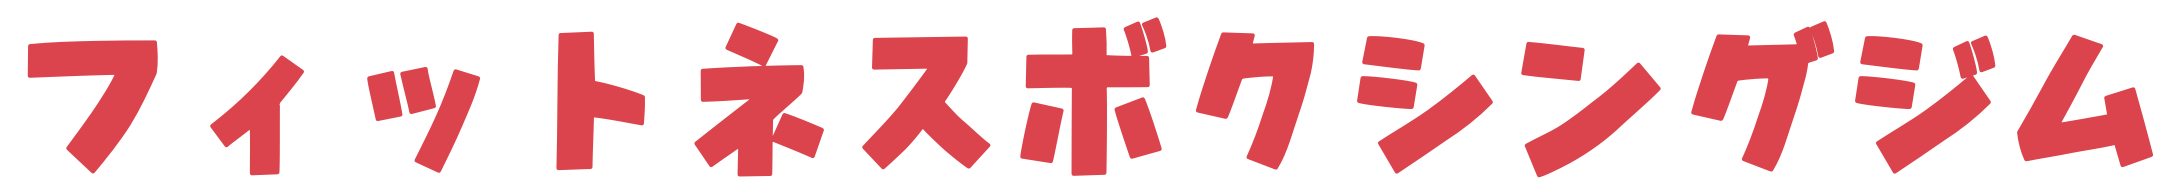
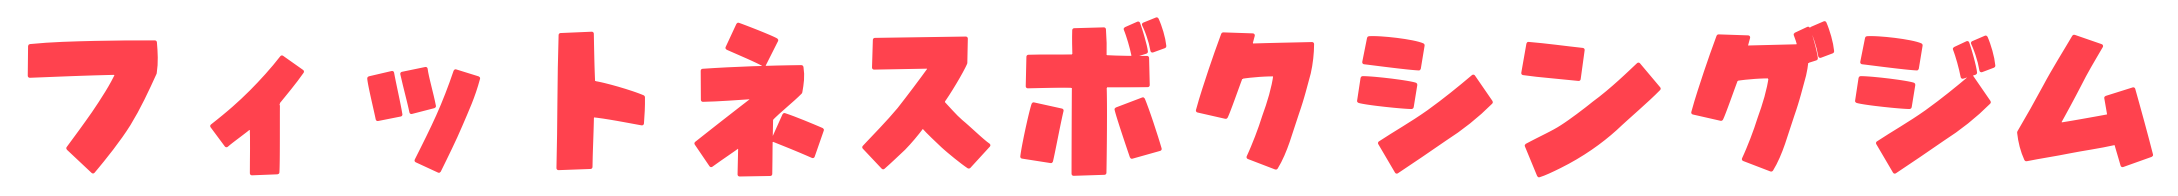
HP: キャッチの色をHPの赤に、メニュー項目を押したらメニューを閉じる、アクセスにGoogleマップのナビボタン、稲田の「Gって呼んでね」を追加、写真スライドを3秒に
Claude-Session: https://claude.ai/code/session_01XgjijxwWE51h29K9kvTzM4

Changed region(s): [[0.2498, 0.0918, 0.9991, 0.9184], [0.0, 0.1837, 0.2185, 0.8878]]

diff --git a/index.html b/index.html
@@ -141,9 +141,9 @@
 </section>
 <section id="trial"> <img class="lets-try" src="assets/pic/TOP/lets-try.png" alt="どう？結構ワンバランスについて気になってきた？とりあえず体験予約してみない？"> <a href="https://onebalanceyume-beep.github.io/onebalance-member/onebalance-v9.html?menu=boxing"><img  class="try-button2" src="assets/pic/TOP/try-button2.png" alt="ボクシングの体験予約する"></a> <a href="https://onebalanceyume-beep.github.io/onebalance-member/onebalance-v9.html?menu=kick"><img  class="try-button1" src="assets/pic/TOP/try-button1.png" alt="キックエクササイズの体験予約する"></a> <img  class="look" src="assets/pic/TOP/look.png" alt="いやいやいや！体験って何するの？なんかドキドキするわ！って思うよね。そんな方は、ちょっとここのぞいてみて！"><a href="try.html"> <img class="look-button" src="assets/pic/TOP/look-button.png" alt="体験内容公開中"> </a> <img class="try-visit" src="assets/pic/TOP/try-visit.png" alt="いきなり体験はハードル高いわ！って思っちゃった？まずは見学からでも大丈夫！雰囲気を見てから体験してみない？"><a href="https://onebalanceyume-beep.github.io/onebalance-member/onebalance-v9.html?menu=tour"><img class="look-button" src="assets/pic/TOP/visit.png" alt="見学予約する"></a> </section>
 <section id="price"> <img src="assets/pic/TOP/together.png" alt="入会金いっしょ割 通常価格8,800円の入会金が、3人いっしょなら1人あたり0円、2人いっしょなら1人あたり4,400円"> <img class="top-price" src="assets/pic/TOP/price.png" alt="月会費（税込） キックエクササイズ：いつでも利用可能 男性7,260円・女性6,380円、週1 4,620円／ボクシング：いつでも利用可能 男性7,260円・女性6,380円、週1 4,620円／スパーリングボクシング：いつでも利用可能 男性7,810円・女性6,930円、週1 4,950円。週1コースは曜日を2つ決めていただき、どちらか1回利用可能です。"><a href="https://onebalanceyume-beep.github.io/onebalance-member/onebalance-v9.html?menu=join"><img class="join" src="assets/pic/TOP/join.png" alt="入会予約する"> </a></section>
-<section id="trainer" class="trainer"> <img class="message" src="assets/pic/trainer/punch2.png" alt="待ってます"> <img class="inata-3" src="assets/pic/trainer/inata.png" alt="トレーナー 稲田大地"> <img class="trainer-pic" src="assets/pic/trainer/inata-nagao.png" alt="ワンバランスボクシングジムのトレーナー 稲田大地・長尾儀弘"> <img class="nagao3" src="assets/pic/trainer/nagao.png" alt="トレーナー 長尾儀弘"> <img class="achievements" src="assets/pic/trainer/Achievements.png" alt="トレーナーの大会実績 2005年 全日本実業団ボクシング選手権 バンタム級 優勝／2006年 全日本実業団ボクシング選手権 フェザー級 優勝＆MVP（2階級制覇）／2006年 全日本社会人選手権 バンタム級 優勝／2007年 全日本実業団ボクシング選手権 ライト級 優勝＆MVP（3階級制覇・大会初）／2012年・2013年 全国高校総体 ライトウェルター級 出場／2013年 全国高校総体 中国大会 ライトウェルター級 準優勝"> </section>
+<section id="trainer" class="trainer"> <img class="message" src="assets/pic/trainer/punch2.png" alt="待ってます"> <img class="inata-3" src="assets/pic/trainer/inata.png" alt="トレーナー 稲田大地"> <img class="trainer-pic" src="assets/pic/trainer/inata-nagao.png" alt="ワンバランスボクシングジムのトレーナー 稲田大地・長尾儀弘"> <img class="nagao3" src="assets/pic/trainer/nagao.png" alt="トレーナー 長尾儀弘"> <img class="inata-g" src="assets/pic/trainer/inata-g.png" alt="稲田大地は通称G。Gって呼んでね！"> <img class="achievements" src="assets/pic/trainer/Achievements.png" alt="トレーナーの大会実績 2005年 全日本実業団ボクシング選手権 バンタム級 優勝／2006年 全日本実業団ボクシング選手権 フェザー級 優勝＆MVP（2階級制覇）／2006年 全日本社会人選手権 バンタム級 優勝／2007年 全日本実業団ボクシング選手権 ライト級 優勝＆MVP（3階級制覇・大会初）／2012年・2013年 全国高校総体 ライトウェルター級 出場／2013年 全国高校総体 中国大会 ライトウェルター級 準優勝"> </section>
 <section  id="top-qa"  class="top-qa"> <img src="assets/pic/TOP/q&a.png" alt="よくある質問"> <img src="assets/pic/TOP/q&a-long.png" alt="Q 動く時の服装は？ A 自分の動きやすい格好だったらなんでもOKです！ Q どのぐらいの時間ボクシングをしますか？ A 大体1〜2時間ぐらいされている方が多いです。でも体力は人それぞれなので自分にあったペースでOKです！ Q コースはとちゅうで変えれますか？ A 出来ますが、事務手数料がかかります。1件、1,650円（税こみ）になります。"> </section>
-<section id="top-contact"> <a href="tel:0859495275"><img class="tel" src="assets/pic/TOP/tel.png" alt="電話番号 0859-49-5275"></a> <img class="address" src="assets/pic/TOP/address.png" alt="住所 〒683-0006 鳥取県米子市車尾6丁目8-59"> <img class="business-hours" src="assets/pic/TOP/business-hours.png" alt="営業時間 月〜金 16:00-22:00 土 16:00-20:00 日・祝 定休日 ※最終受付はCLOSEの30分前までにお願いします。"> <img  src="assets/pic/TOP/map.png" alt="アクセス地図（日野川の土手沿い・旧日野橋の近く）"> <img class="parking" src="assets/pic/TOP/parking.png" alt="駐車場の案内（施設正面から見て右側が入口）"> </section>
+<section id="top-contact"> <a href="tel:0859495275"><img class="tel" src="assets/pic/TOP/tel.png" alt="電話番号 0859-49-5275"></a> <img class="address" src="assets/pic/TOP/address.png" alt="住所 〒683-0006 鳥取県米子市車尾6丁目8-59"> <img class="business-hours" src="assets/pic/TOP/business-hours.png" alt="営業時間 月〜金 16:00-22:00 土 16:00-20:00 日・祝 定休日 ※最終受付はCLOSEの30分前までにお願いします。"> <a class="navi-link" href="https://www.google.com/maps/dir/?api=1&amp;destination=%E3%83%AF%E3%83%B3%E3%83%90%E3%83%A9%E3%83%B3%E3%82%B9%E3%83%9C%E3%82%AF%E3%82%B7%E3%83%B3%E3%82%B0%E3%82%B8%E3%83%A0+%E9%B3%A5%E5%8F%96%E7%9C%8C%E7%B1%B3%E5%AD%90%E5%B8%82%E8%BB%8A%E5%B0%BE6%E4%B8%81%E7%9B%AE8-59&amp;travelmode=driving" target="_blank" rel="noopener"><img src="assets/pic/TOP/navi-button.png" alt="Googleマップでナビ開始（ワンバランスボクシングジムまで車で道案内）"></a> <img  src="assets/pic/TOP/map.png" alt="アクセス地図（日野川の土手沿い・旧日野橋の近く）"> <img class="parking" src="assets/pic/TOP/parking.png" alt="駐車場の案内（施設正面から見て右側が入口）"> </section>
 <fotter>
   <div class="fotter-box1"> <img class="fotter" src="assets/pic/TOP/fotter.png" alt="">
     <ul class="fotter-box2">

diff --git a/assets/js/header.js b/assets/js/header.js
@@ -11,3 +11,12 @@ MenuContainer.addEventListener('click', () => {
   MenuOpen.classList.toggle('active');
 
 });
+
+// メニューの項目をタップしたら、メニューを閉じる（開いたままだとページの文字を隠してしまうため）
+document.querySelectorAll('.header-nav a').forEach((a) => {
+  a.addEventListener('click', () => {
+    headernav.classList.remove('active');
+    MenuClose.classList.remove('active');
+    MenuOpen.classList.remove('active');
+  });
+});

diff --git a/assets/css/top.css b/assets/css/top.css
@@ -134,6 +134,20 @@
 .nagao3{
   width: 15%;
 }
+.inata-g{
+  width: 62%;
+  display: block;
+  margin: 30px auto 0 20px;
+}
+.navi-link{
+  display: block;
+  width: 88%;
+  margin: 10px auto 24px;
+}
+.navi-link img{
+  display: block;
+  width: 100%;
+}
 .achievements{
   width: 90%;
   margin: 80px 0 60px 0;
